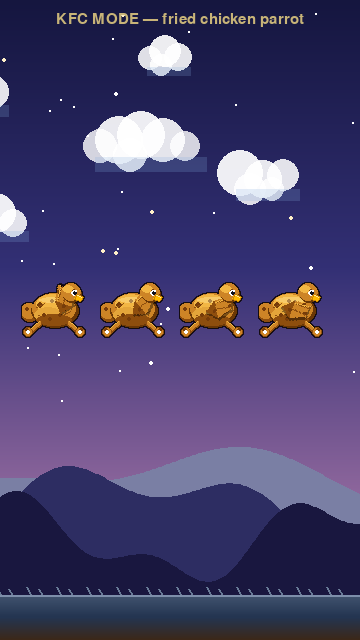
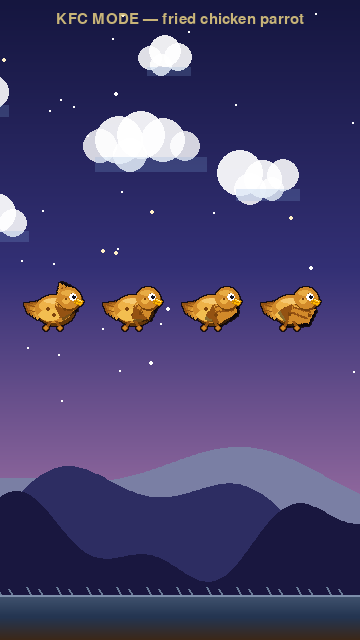
Restore original first-attempt fried chicken parrot design
User preferred the very first design from e092105 over all subsequent
redesigns.

https://claude.ai/code/session_01QLmFwvsNm2jED6FYmdcLwB

diff --git a/game/parrot.py b/game/parrot.py
@@ -212,103 +212,78 @@ def get_parrot(frame_idx: int, tilt_deg: float) -> pygame.Surface:
 
 # ── Fried-chicken variant (KFC powerup) ──────────────────────────────────────
 
-_CRISPY_GOLD  = (205, 132,  38)   # deep golden-brown batter
-_CRISPY_DARK  = (142,  78,  14)   # shadow / skin crack lines
-_CRISPY_LIGHT = (242, 182,  68)   # breast highlight
-_CRISPY_SPOT  = (118,  60,  10)   # dark crispy patches
+_CRISPY_GOLD  = (210, 138,  42)
+_CRISPY_DARK  = (148,  82,  18)
+_CRISPY_LIGHT = (238, 178,  72)
+_CRISPY_SPOT  = (125,  68,  12)
 
 
 def _build_fried_wing(angle_deg):
-    """Stubby fried chicken wing — shorter and chubbier than the macaw wing."""
-    w = pygame.Surface((44, 44), pygame.SRCALPHA)
-    shadow = [(22, 22), (38, 13), (42, 26), (30, 38), (16, 34)]
-    pygame.draw.polygon(w, (0, 0, 0, 100), shadow)
-    pts = [(22, 20), (36, 12), (40, 25), (28, 36), (16, 32)]
+    w = pygame.Surface((50, 50), pygame.SRCALPHA)
+    pygame.draw.polygon(w, (0, 0, 0, 110),
+                        [(24, 26), (46, 14), (50, 30), (34, 44), (18, 40)])
+    pts = [(24, 24), (44, 13), (48, 28), (32, 42), (18, 36)]
     pygame.draw.polygon(w, _CRISPY_GOLD, pts)
-    pygame.draw.polygon(w, _CRISPY_DARK, [(22, 20), (28, 36), (16, 32)])  # underside
-    # Crispy brown patches
-    for px, py, pr in ((32, 17, 2), (38, 23, 2), (24, 30, 2)):
+    pygame.draw.polygon(w, _CRISPY_DARK, [(24, 24), (32, 42), (18, 36)])
+    for px, py, pr in ((36, 20, 2), (44, 22, 2), (28, 34, 2)):
         pygame.draw.circle(w, _CRISPY_SPOT, (px, py), pr)
-    # Skin lines
-    pygame.draw.line(w, _CRISPY_DARK,  (24, 21), (38, 16), 1)
-    pygame.draw.line(w, _CRISPY_DARK,  (26, 27), (40, 23), 1)
-    pygame.draw.line(w, _CRISPY_LIGHT, (23, 21), (37, 14), 1)
+    pygame.draw.line(w, _CRISPY_DARK, (26, 25), (42, 18), 2)
+    pygame.draw.line(w, _CRISPY_DARK, (28, 30), (44, 25), 2)
+    pygame.draw.line(w, _CRISPY_LIGHT, (25, 25), (41, 15), 1)
     return pygame.transform.rotate(w, angle_deg)
 
 
 def _build_fried_frame(wing_angle_deg):
-    """Whole fried Thanksgiving chicken — plump body, two drumstick legs, stubby wings."""
     surf = pygame.Surface((SPRITE_W, SPRITE_H), pygame.SRCALPHA)
 
-    # ── Rear / tail end — rounded bump on the left ───────────────────────────
-    _aaellipse(surf, _CRISPY_DARK,  ( 8, 36), 10,  9)   # shadow
-    _aaellipse(surf, _CRISPY_GOLD,  ( 7, 34),  9,  8)   # tail blob
-    pygame.draw.circle(surf, _CRISPY_SPOT, (5, 32), 2)
+    # Tail — golden-brown crispy wedges instead of flowing feathers
+    for i, c in enumerate([(148, 82, 18), (178, 108, 28), (208, 138, 42), (228, 162, 58)]):
+        pts = [(2 + i*3, 26 + i*2), (14 + i, 24 + i),
+               (20 + i, 30 + i*2), (6 + i*3, 36 + i*2)]
+        pygame.draw.polygon(surf, c, pts)
+    pygame.draw.line(surf, _CRISPY_DARK, (4, 27), (18, 31), 1)
+    pygame.draw.line(surf, _CRISPY_DARK, (6, 33), (20, 35), 1)
 
-    # ── Main body — large plump oval (the carcass) ───────────────────────────
-    _aaellipse(surf, (105, 55,  6),   (33, 34), 24, 17)  # deep shadow
-    _aaellipse(surf, _CRISPY_GOLD,    (32, 32), 22, 16)  # outer skin
-    _aaellipse(surf, _CRISPY_LIGHT,   (30, 27), 16, 10)  # breast highlight
-    _aaellipse(surf, (228, 165, 58),  (26, 38), 14,  8)  # lower belly warmth
-    _aaellipse(surf, _CRISPY_DARK,    (32, 43), 18,  6)  # bottom shadow
+    # Body shadow + base
+    _aaellipse(surf, (100, 55, 8),   (34, 35), 19, 14)
+    _aaellipse(surf, _CRISPY_GOLD,   (32, 32), 19, 14)
+    _aaellipse(surf, _CRISPY_LIGHT,  (30, 29), 13,  8)
+    _aaellipse(surf, (242, 190, 80), (28, 38), 12,  6)
+    for px, py, pr in ((26, 32, 2), (38, 28, 2), (32, 38, 2), (36, 34, 1)):
+        pygame.draw.circle(surf, _CRISPY_SPOT, (px, py), pr)
+    sheen = pygame.Surface((28, 6), pygame.SRCALPHA)
+    pygame.draw.ellipse(sheen, (255, 225, 155, 120), sheen.get_rect())
+    surf.blit(sheen, (22, 21))
 
-    # Crispy skin patches (batter spots)
-    for px, py, pr in ((18, 28, 3), (36, 25, 2), (42, 32, 3),
-                       (22, 38, 2), (38, 38, 2), (28, 42, 2), (30, 24, 2)):
+    # Wing (fried variant)
+    wing = _build_fried_wing(wing_angle_deg)
+    surf.blit(wing, wing.get_rect(center=(34, 28)).topleft)
+
+    # Head
+    _aaellipse(surf, (118, 65, 10),  (48, 23), 12, 11)
+    _aaellipse(surf, _CRISPY_GOLD,   (47, 21), 12, 11)
+    _aaellipse(surf, _CRISPY_LIGHT,  (44, 24),  4,  3)
+    _aaellipse(surf, (232, 172, 68), (46, 16),  7,  3)
+    for px, py, pr in ((50, 18, 2), (44, 22, 1)):
         pygame.draw.circle(surf, _CRISPY_SPOT, (px, py), pr)
 
-    # Skin surface lines (crackle texture)
-    pygame.draw.line(surf, _CRISPY_DARK, (14, 30), (22, 26), 1)
-    pygame.draw.line(surf, _CRISPY_DARK, (38, 26), (46, 30), 1)
-    pygame.draw.line(surf, _CRISPY_DARK, (16, 38), (24, 42), 1)
-    pygame.draw.line(surf, _CRISPY_DARK, (40, 38), (48, 34), 1)
+    # Round eyes (no sunglasses — it's a chicken now)
+    pygame.draw.circle(surf, WHITE,       (51, 20), 4)
+    pygame.draw.circle(surf, (15, 15, 25),(52, 20), 2)
+    pygame.draw.circle(surf, WHITE,       (53, 18), 1)   # glint
 
-    # Top breast sheen
-    sheen = pygame.Surface((30, 6), pygame.SRCALPHA)
-    pygame.draw.ellipse(sheen, (255, 230, 155, 110), sheen.get_rect())
-    surf.blit(sheen, (17, 20))
-
-    # ── Drumstick legs — two thick legs splayed outward at the bottom ────────
-    # Left leg: body root → lower-left → ball joint
-    pygame.draw.line(surf, _CRISPY_DARK,  (19, 46), ( 7, 56), 5)
-    pygame.draw.line(surf, _CRISPY_GOLD,  (18, 45), ( 6, 55), 4)
-    pygame.draw.line(surf, _CRISPY_LIGHT, (17, 44), ( 5, 54), 1)
-    pygame.draw.circle(surf, _CRISPY_GOLD, ( 6, 55), 5)
-    pygame.draw.circle(surf, _CRISPY_DARK, ( 6, 55), 5, 1)
-    pygame.draw.circle(surf, _CRISPY_SPOT, ( 5, 53), 2)   # crispy end
-
-    # Right leg: body root → lower-right → ball joint
-    pygame.draw.line(surf, _CRISPY_DARK,  (45, 46), (57, 56), 5)
-    pygame.draw.line(surf, _CRISPY_GOLD,  (46, 45), (58, 55), 4)
-    pygame.draw.line(surf, _CRISPY_LIGHT, (47, 44), (59, 54), 1)
-    pygame.draw.circle(surf, _CRISPY_GOLD, (58, 55), 5)
-    pygame.draw.circle(surf, _CRISPY_DARK, (58, 55), 5, 1)
-    pygame.draw.circle(surf, _CRISPY_SPOT, (59, 53), 2)
-
-    # Drumstick bone tip (white nub at the very end)
-    pygame.draw.circle(surf, WHITE, ( 6, 55), 2)
-    pygame.draw.circle(surf, WHITE, (58, 55), 2)
-
-    # ── Wing (stubby, animated) ───────────────────────────────────────────────
-    wing = _build_fried_wing(wing_angle_deg)
-    surf.blit(wing, wing.get_rect(center=(34, 25)).topleft)
-
-    # ── Head — small round bump at top-right (it's still a bird) ─────────────
-    _aaellipse(surf, (105, 55, 6),   (50, 17), 10, 9)
-    _aaellipse(surf, _CRISPY_GOLD,   (49, 15), 10, 9)
-    _aaellipse(surf, _CRISPY_LIGHT,  (46, 12),  6, 4)
-    pygame.draw.circle(surf, _CRISPY_SPOT, (52, 14), 2)
-
-    # Round eyes
-    pygame.draw.circle(surf, WHITE,        (52, 16), 3)
-    pygame.draw.circle(surf, (15, 15, 25), (53, 16), 2)
-    pygame.draw.circle(surf, WHITE,        (54, 14), 1)
-
-    # Beak (unchanged — chickens have beaks too)
-    beak_pts = [(55, 17), (61, 20), (58, 24), (52, 22)]
+    # Beak unchanged
+    beak_pts = [(55, 21), (61, 24), (58, 28), (52, 26)]
     pygame.draw.polygon(surf, BIRD_BEAK,   beak_pts)
     pygame.draw.polygon(surf, BIRD_BEAK_D, beak_pts, 1)
-    pygame.draw.line(surf, (255, 230, 150), (55, 18), (59, 20), 1)
+    pygame.draw.line(surf, (255, 230, 150), (55, 22), (59, 24), 1)
+    pygame.draw.line(surf, BIRD_BEAK_D,    (52, 24), (58, 25), 1)
+
+    # Drumstick legs
+    for lx, ly, ex, ey in ((28, 44, 24, 51), (34, 44, 38, 51)):
+        pygame.draw.line(surf, _CRISPY_DARK, (lx, ly), (ex, ey), 3)
+        pygame.draw.circle(surf, _CRISPY_GOLD, (ex, ey), 3)
+        pygame.draw.circle(surf, _CRISPY_DARK, (ex, ey), 3, 1)
 
     return surf
 
